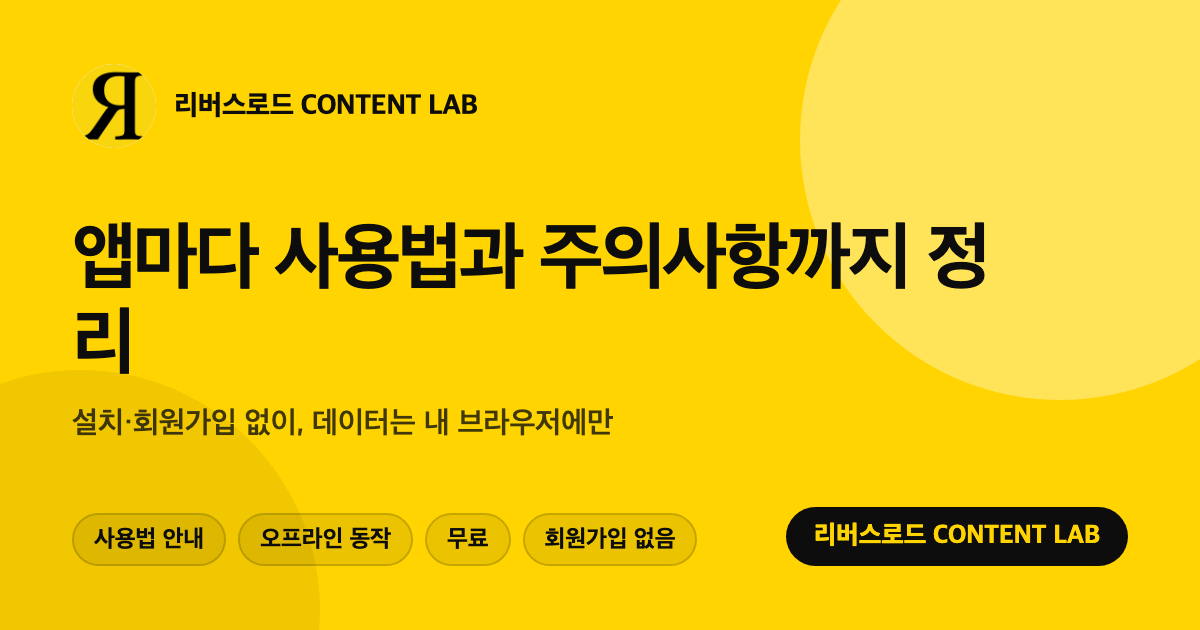
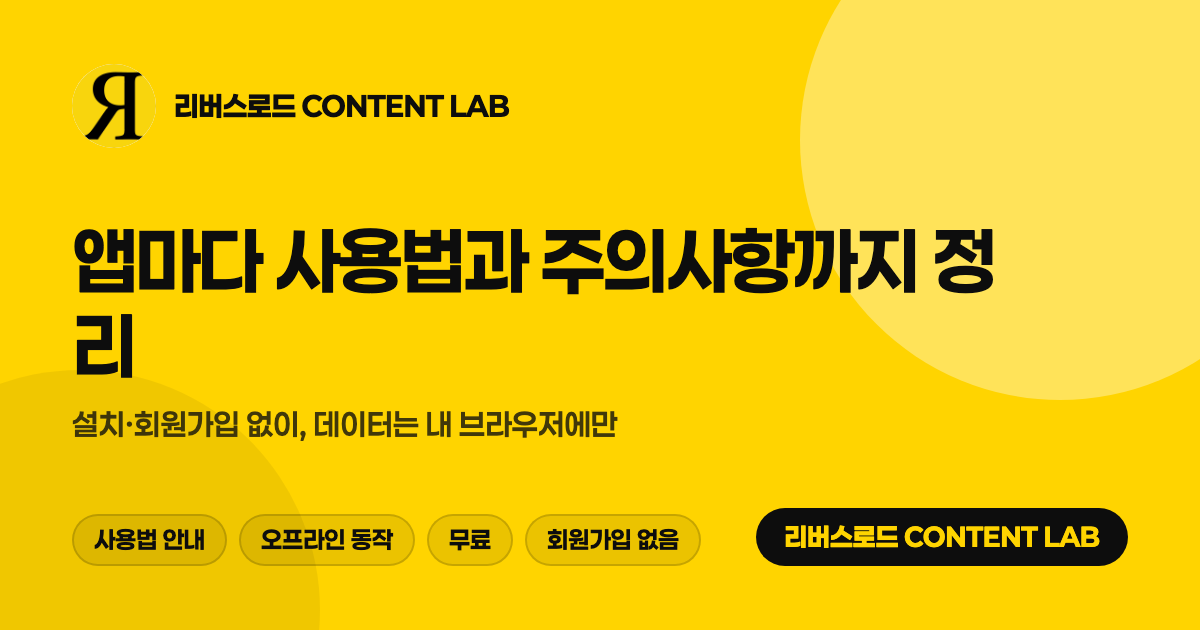
후원 안내를 진노랑으로 강조 + 기본 폰트를 페이퍼로지로 변경
1) 후원 안내 = 브랜드 노랑(#FFD400) 밴드
   - .section.support 안에서만 색 토큰을 다시 정의(흰 카드 + 검정 글씨) → 라이트/다크 모두 노랑 유지
   - 노랑 위에 은은한 도트 무늬, 흰 뱃지, 검정 강조 숫자·막대·계좌 강조선
   - 합계금액은 흰 카드 안에 가장 크게(최대 3.9rem) — 노랑 바탕과 대비되어 눈에 띔

2) 기본 폰트 = 페이퍼로지(Paperlogy, 프로젝트눈누)
   - style.css 에 @font-face 5종(400·500·600·700·800, woff2, font-display: swap)
   - body 폰트 스택 맨 앞에 "Paperlogy" (한글 대체 폰트 유지)
   - jsDelivr 주소는 앱(compound-lab 등)과 동일 → 브라우저가 한 번만 내려받음
   - layout.js: fastly.jsdelivr.net preconnect + Regular 가중치 preload
   - tools/render-og.js: 공유 카드 이미지도 Paperlogy 로 다시 생성(+ 폰트 로딩 대기)

확인: 라이브 CSS 에 @font-face 5개·preload 반영, 후원 밴드 노랑 강조(가빈 30,000원) 표시,
데스크톱/모바일 화면 확인, SEO 점검 ✅ · 애드센스 점검 ✅

diff --git a/public/assets/style.css b/public/assets/style.css
@@ -4,6 +4,35 @@
    4) 공개 페이지  5) 관리자 화면(admin.html, login.html)  6) 반응형
    ========================================================================= */
 
+/* ------------------------------------------------ 0) 웹폰트: 페이퍼로지 */
+/* 프로젝트눈누(Project Noonnu) Paperlogy — jsDelivr 배포본.
+   앱 화면(compound-lab 등)과 같은 주소를 쓰므로 브라우저가 한 번만 내려받습니다. */
+@font-face {
+  font-family: 'Paperlogy';
+  src: url('https://fastly.jsdelivr.net/gh/projectnoonnu/2408-3@1.0/Paperlogy-4Regular.woff2') format('woff2');
+  font-weight: 400; font-style: normal; font-display: swap;
+}
+@font-face {
+  font-family: 'Paperlogy';
+  src: url('https://fastly.jsdelivr.net/gh/projectnoonnu/2408-3@1.0/Paperlogy-5Medium.woff2') format('woff2');
+  font-weight: 500; font-style: normal; font-display: swap;
+}
+@font-face {
+  font-family: 'Paperlogy';
+  src: url('https://fastly.jsdelivr.net/gh/projectnoonnu/2408-3@1.0/Paperlogy-6SemiBold.woff2') format('woff2');
+  font-weight: 600; font-style: normal; font-display: swap;
+}
+@font-face {
+  font-family: 'Paperlogy';
+  src: url('https://fastly.jsdelivr.net/gh/projectnoonnu/2408-3@1.0/Paperlogy-7Bold.woff2') format('woff2');
+  font-weight: 700; font-style: normal; font-display: swap;
+}
+@font-face {
+  font-family: 'Paperlogy';
+  src: url('https://fastly.jsdelivr.net/gh/projectnoonnu/2408-3@1.0/Paperlogy-8ExtraBold.woff2') format('woff2');
+  font-weight: 800; font-style: normal; font-display: swap;
+}
+
 /* ------------------------------------------------------------ 1) 토큰 */
 /* 색상 값은 한 곳에서만 정의하고, 라이트/다크 두 팔레트를 아래에서 매핑합니다. */
 :root {
@@ -160,7 +189,7 @@ body {
   margin: 0;
   background: var(--bg);
   color: var(--text);
-  font: 16px/1.72 system-ui, -apple-system, "Segoe UI", "Apple SD Gothic Neo", "Malgun Gothic", sans-serif;
+  font: 16px/1.72 "Paperlogy", system-ui, -apple-system, "Segoe UI", "Apple SD Gothic Neo", "Malgun Gothic", sans-serif;
   -webkit-font-smoothing: antialiased;
   text-rendering: optimizeLegibility;
 }
@@ -381,17 +410,47 @@ header.top .theme-toggle { margin-left: 0; }
 }
 
 /* ------------------------------------------------------ 4-2) 후원 안내 */
+/* 브랜드 노랑(로고의 #FFD400)으로 강조 — 밴드 안에서만 색 토큰을 다시 정의해
+   흰 카드 + 검정 글씨로 또렷하게 읽히도록 합니다. (라이트/다크 모두 노랑 유지) */
+.section.support {
+  --band-yellow: #ffd400;
+  --band-yellow-deep: #eec300;
+  --surface: #ffffff;
+  --surface-2: rgba(255, 255, 255, 0.74);
+  --border: rgba(13, 13, 13, 0.12);
+  --border-strong: rgba(13, 13, 13, 0.28);
+  --text: #16130a;
+  --text-soft: #3d3726;
+  --muted: #6b6450;
+  --accent: #16130a;
+  --accent-soft: rgba(13, 13, 13, 0.08);
+  --accent-contrast: #ffffff;
+  --shadow-xs: 0 1px 2px rgba(74, 60, 0, 0.14);
+  --shadow: 0 1px 2px rgba(74, 60, 0, 0.12), 0 10px 24px -14px rgba(74, 60, 0, 0.35);
+  --shadow-lg: 0 2px 4px rgba(74, 60, 0, 0.14), 0 24px 46px -24px rgba(74, 60, 0, 0.4);
+}
 .support-band {
   position: relative; overflow: hidden;
   display: grid; gap: clamp(20px, 3vw, 34px);
   padding: clamp(22px, 3vw, 38px);
-  border: 1px solid var(--border); border-radius: var(--radius-lg);
+  border: 1px solid rgba(13, 13, 13, 0.22); border-radius: var(--radius-lg);
   background:
-    radial-gradient(ellipse 55% 50% at 92% 4%, color-mix(in srgb, var(--accent) 13%, transparent), transparent 70%),
-    radial-gradient(ellipse 45% 40% at 4% 100%, color-mix(in srgb, var(--accent) 8%, transparent), transparent 70%),
-    var(--surface);
+    radial-gradient(ellipse 58% 55% at 94% 0%, rgba(255, 255, 255, 0.55), transparent 70%),
+    radial-gradient(ellipse 50% 45% at 2% 100%, rgba(255, 255, 255, 0.32), transparent 70%),
+    linear-gradient(152deg, var(--band-yellow) 0%, var(--band-yellow) 58%, var(--band-yellow-deep) 100%);
   box-shadow: var(--shadow-lg);
 }
+/* 은은한 도트 무늬로 브랜드 느낌 (로고의 노란 원과 어울리게) */
+.support-band::before {
+  content: ''; position: absolute; inset: 0; z-index: 0; pointer-events: none;
+  background-image: radial-gradient(circle, rgba(13, 13, 13, 0.16) 1px, transparent 1px);
+  background-size: 22px 22px;
+  mask-image: linear-gradient(115deg, transparent 42%, #000 100%);
+  -webkit-mask-image: linear-gradient(115deg, transparent 42%, #000 100%);
+}
+.support-band > * { position: relative; z-index: 1; }
+/* 노랑 바탕 위에서는 뱃지를 흰색으로 (또렷하게) */
+.section.support .eyebrow { background: rgba(255, 255, 255, 0.92); border-color: rgba(13, 13, 13, 0.16); color: var(--text); }
 .support-main { display: grid; gap: clamp(20px, 3vw, 34px); grid-template-columns: minmax(0, 1.3fr) minmax(0, 0.7fr); align-items: start; }
 .support-copy h2 { margin: 0 0 0.55em; font-size: clamp(1.35rem, 1.15rem + 0.8vw, 1.75rem); letter-spacing: -0.02em; }
 .support-copy p { color: var(--text-soft); }
@@ -420,9 +479,10 @@ header.top .theme-toggle { margin-left: 0; }
 .ledger-total-card {
   display: grid; gap: 6px; align-content: center;
   padding: clamp(18px, 2.2vw, 26px);
-  border: 1px solid color-mix(in srgb, var(--accent) 24%, var(--border));
+  border: 1px solid var(--border);
   border-radius: var(--radius);
-  background: linear-gradient(165deg, color-mix(in srgb, var(--accent) 12%, var(--surface-2)), var(--surface-2) 72%);
+  background: var(--surface);
+  box-shadow: var(--shadow);
 }
 .ledger-total { display: flex; align-items: baseline; gap: 7px; margin: 0; flex-wrap: wrap; }
 .ledger-total strong {

diff --git a/tools/render-og.js b/tools/render-og.js
@@ -40,7 +40,7 @@ function page({ title, subtitle, chips, badge }) {
   * { box-sizing: border-box; margin: 0; }
   body {
     width: 1200px; height: 630px; overflow: hidden;
-    font-family: -apple-system, "Apple SD Gothic Neo", "Segoe UI", system-ui, sans-serif;
+    font-family: "Paperlogy", -apple-system, "Apple SD Gothic Neo", "Segoe UI", system-ui, sans-serif;
     background: #FFD400; color: #0D0D0D;
     display: flex; flex-direction: column; justify-content: space-between; padding: 64px 72px;
     position: relative;
@@ -141,6 +141,8 @@ class CDP {
 
     for (const shot of shots) {
       await cdp.send('Page.navigate', { url: `data:text/html;charset=utf-8,${encodeURIComponent(shot.html)}` });
+      // 웹폰트(Paperlogy)가 준비될 때까지 기다립니다
+      try { await cdp.eval('document.fonts && document.fonts.ready ? document.fonts.ready.then(() => true) : true'); } catch { /* 무시 */ }
       await sleep(700);
       const png = await cdp.send('Page.captureScreenshot', { format: 'png', captureBeyondViewport: false });
       fs.writeFileSync(shot.file, Buffer.from(png.data, 'base64'));

diff --git a/src/views/layout.js b/src/views/layout.js
@@ -209,6 +209,9 @@ ${site.domain ? `<link rel="alternate" type="application/rss+xml" title="${attr(
 <meta property="og:description" content="${attr(desc)}" />
 ${canonical ? `<meta property="og:url" content="${attr(canonical)}" />` : ''}
 <meta name="twitter:card" content="summary_large_image" />
+<link rel="preconnect" href="https://fastly.jsdelivr.net" crossorigin />
+<link rel="preload" as="font" type="font/woff2" crossorigin href="https://fastly.jsdelivr.net/gh/projectnoonnu/2408-3@1.0/Paperlogy-4Regular.woff2" />
+<link rel="preconnect" href="https://pagead2.googlesyndication.com" crossorigin />
 <link rel="icon" href="/favicon.ico" sizes="any" />
 <link rel="icon" href="${attr(assetUrl('favicon-48.png'))}" sizes="48x48" type="image/png" />
 <link rel="icon" href="${attr(assetUrl('favicon-96.png'))}" sizes="96x96" type="image/png" />
